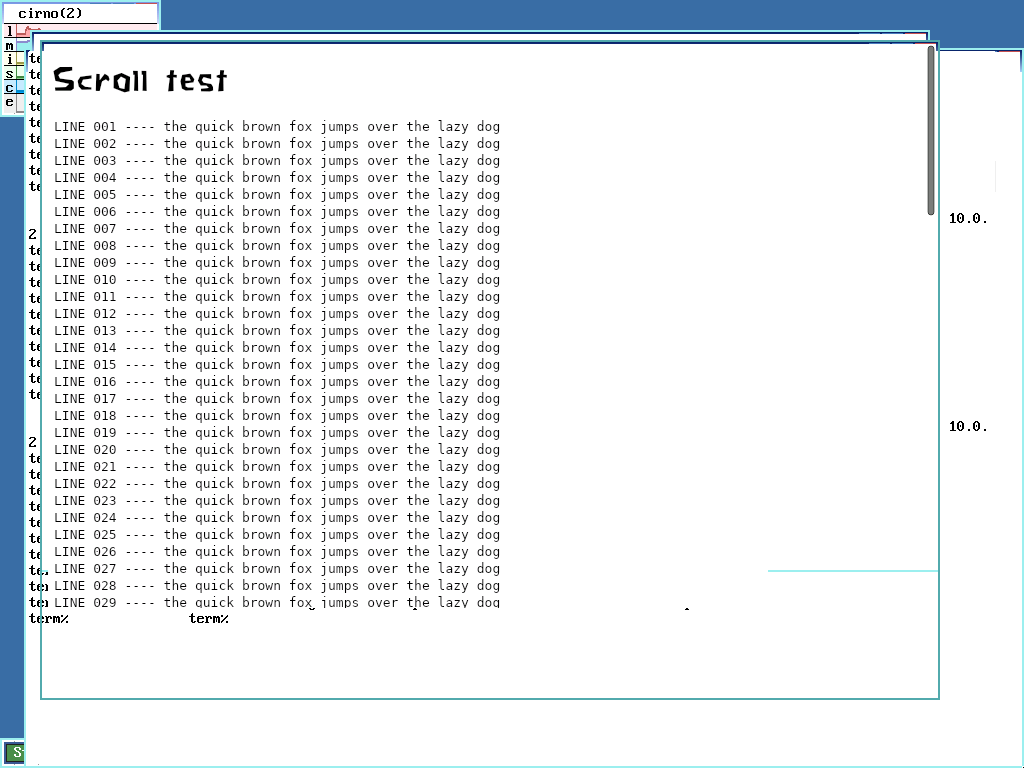
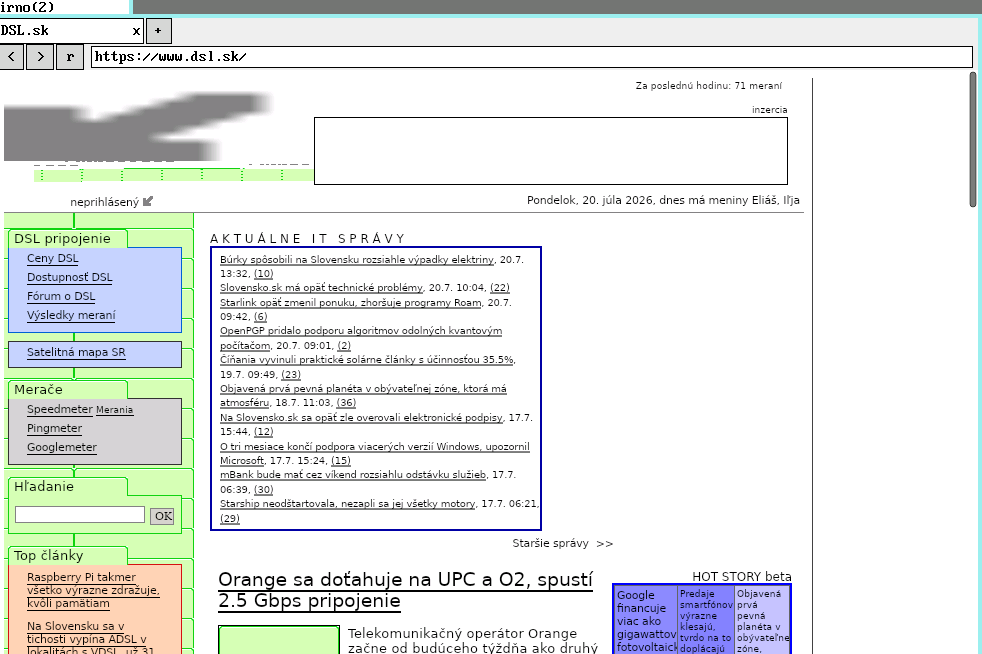
ladybird9: update docs + screenshots for v0.2.0 (chrome, images, current fonts)
The README still described v0.1.0: "no browser chrome yet", "no video/WebGL/
JPEG-XL/AVIF", "temporary profile", and a "publication pending sign-off" note.
v0.2.0 has all of these — real tab strip + address bar + back/forward/reload,
the deferred codecs enabled, a persistent profile, images rendering. Rewrote the
what-works / what's-not lists honestly (heavy SPAs like youtube.com don't settle;
no JS JIT — same interpreter as macOS), fixed the NetSurf comparison's chrome row.

Screenshots regenerated from the current build (were old-font, pre-chrome):
- doc-hackernews: current headless HN render (correct fonts, the Y-logo image)
- m5-window-initial: an interactive window WITH chrome (tabs/address bar/nav) on
  dsl.sk
- doc-render-cleanbox: Wikipedia, full article layout
Dropped the speedtest.net shot from the table — it's a heavy SPA that no longer
screenshots reliably (same class as youtube.com).

deferrals.md: new ICC-color-profile entry (skcms cc9 stack-overflow → sRGB
fallback), and the two Gamepad entries marked RESOLVED (real SDL3 3.2.24, 9/9).

diff --git a/ladybird9/README.md b/ladybird9/README.md
@@ -21,28 +21,32 @@ not asserted: `--headless=text` DOM dumps come out **byte-identical** to the
 same-commit host (macOS) build, and the LibJS smoke battery matches too. The
 deferrals (below) all go through upstream's own feature gates.
 
-**Done — the engine is; the product isn't quite.** What works today:
+**Done — the engine is; the product is usable.** What works today:
 
-- Renders real modern pages — HN, speedtest.net's React SPA, styled content —
-  with correct CSS layout, fonts, colors, and working JavaScript.
-- HTTPS over OpenSSL (ssl9), the full multi-process stack (UI + WebContent +
-  Compositor + RequestServer + ImageDecoder + WebWorker) over `TransportPlan9`.
+- Renders real modern pages — Wikipedia, HN, dsl.sk, styled content — with
+  correct CSS layout, fonts, colors, **images**, and working JavaScript.
+- HTTPS over OpenSSL out of the box (Mozilla CA roots bundled) — no hand-fetching
+  a bundle. The full multi-process stack (UI + WebContent + Compositor +
+  RequestServer + ImageDecoder + WebWorker) over `TransportPlan9`.
+- **Browser chrome**: a real tab strip, address bar, and back/forward/reload,
+  drawn presenter-side in `gl9win2` — `ladybird <url>` opens a usable window.
+  macOS-style Super-key chords (`Super-L` focus + select-all, `Super-T`/`W`/`R`)
+  and Plan 9 line editing in the address bar.
 - **Headless**: `ladybird --headless --screenshot-path shot.png <url>`.
-- **Interactive**: a libdraw window via the `gl9win2` presenter — the page
-  renders on-screen and mouse/keyboard/scroll flow back in.
-- `pac9`-installable (see below). Cold-start on real hardware ≈ **3.7 s**.
+- Persistent profile (history/cookies survive restarts). `pac9`-installable
+  (see below). Cold-start on real hardware ≈ **3.7 s**.
 
 What is **not** done:
 
-- **No browser chrome yet.** `UI/Plan9`'s view is a `HeadlessWebView` subclass,
-  so you get the *page* in a window — but no address bar, tab strip, or
-  back/forward/reload buttons. The URL is passed on the command line. The chrome
-  widgets live only in `UI/Qt` and `UI/AppKit`, neither ported.
+- **Heavy client-rendered SPAs don't settle.** A page like youtube.com never
+  finishes its client-side render and can drive a small box out of memory;
+  static and moderate sites render fully.
+- No JS JIT — LibJS runs upstream's assembly *interpreter* (the JIT was removed
+  upstream), same as the macOS build, so heavy JavaScript is slow on a slow CPU.
 - **Deferred features** (tracked in [`parity/deferrals.md`](parity/deferrals.md),
-  all via upstream gates): no `<video>`/`<audio>` (ffmpeg not built), no WebGL
-  (no GPU), no JPEG-XL/AVIF; SQL disabled and the profile is temporary (Plan 9
-  file-locking) so history/cookies don't persist — the launcher passes
-  `--temporary-profile --disable-sql-database`.
+  all via upstream gates): `<video>`/`<audio>` decode is built (ffmpeg 7.1.1)
+  but there is no 9front audio-out backend, so playback is silent/decode-only;
+  WebGL runs on gl9/Mesa softpipe (no GPU); JPEG-XL/AVIF decode is on.
 - It's **heavy**: six static `a.out`s (~400 MB), so first paint has real latency.
 
 **Pin:** upstream master `8cc5d7a5ff` (2026-07-15). Upstream has no releases and
@@ -53,10 +57,11 @@ the tree and applies `port/patches/`.
 
 | | |
 |---|---|
-| ![HN](parity/screenshots/doc-hackernews.png) | ![speedtest.net](parity/screenshots/doc-speedtest-ookla.png) |
-| Hacker News — full page, real layout | speedtest.net — a modern React SPA renders + the test auto-starts |
-| ![in a rio window](parity/screenshots/m5-window-initial.png) | ![clean render](parity/screenshots/doc-render-cleanbox.png) |
-| Interactive: the page in a **rio window** (note: no browser chrome) | A styled page, pixel-correct CSS |
+| ![in a rio window with chrome](parity/screenshots/m5-window-initial.png) | ![Wikipedia](parity/screenshots/doc-render-cleanbox.png) |
+| Interactive: **browser chrome** — tab strip, address bar, back/forward/reload — in a rio window (dsl.sk) | Wikipedia — full article layout, pixel-correct CSS + fonts |
+
+*(The Hacker News shot at the top of this README is a current headless render —
+note the correct fonts and the rendered `Y` logo image.)*
 
 ## Install with pac9
 
@@ -83,9 +88,8 @@ resources + ICU data + the CA bundle + a private copy of the `gl9win2`
 presenter. `pac9 uninstall ladybird9` / `pac9 changelog ladybird9` / `pac9
 upgrade` all work.
 
-> The v0.1.0 GitHub release is **built and staged** (`release/make-tarball.sh`)
-> but publication is pending sign-off. To try it before then, serve the tarball
-> locally and point the registry at it — see `release/test-install.rc`.
+> To try a build before it's published, serve the tarball locally and point the
+> registry at it — see `release/test-install.rc`.
 
 ## vs. NetSurf on Plan 9
 
@@ -101,7 +105,7 @@ the pac9 registry). They aim at different points:
 | Rendering | Native Plan 9 `draw` | Skia CPU raster (→ libdraw window via gl9win2) |
 | Processes | Single, lightweight | Multi-process (6), heavy |
 | Footprint | A few MB | ~400 MB static binaries, ~3.7 s cold-start |
-| Browser chrome | **Native front-end** (tabs, URL bar) | **None yet** — single-URL viewport |
+| Browser chrome | **Native front-end** (tabs, URL bar) | **Tabs, address bar, back/forward/reload** (gl9win2) |
 | Modern sites | Struggle (limited JS/CSS3) | **Render faithfully** (HN, speedtest.net, …) |
 | Maturity on 9front | WIP, no releases | M0–M6 complete, pac9-installable, parity-measured |
 | TLS/HTTPS | Yes | Yes (OpenSSL / ssl9) |
@@ -110,8 +114,8 @@ the pac9 registry). They aim at different points:
 browser — it has a real native UI, starts instantly, and sips memory, which is
 perfect for simple or older sites. ladybird9 is the *modern-web-fidelity* option
 — it's the real engine used by a from-scratch standards browser, so it renders
-today's JS/CSS3 sites correctly, at the cost of being heavyweight and (for now)
-chrome-less. If you want to *browse* on Plan 9 today, NetSurf. If you want the
+today's JS/CSS3 sites correctly, at the cost of being heavyweight. If you want a
+lightweight browser for simple sites on Plan 9 today, NetSurf. If you want the
 *real modern web engine* on Plan 9, ladybird9.
 
 (For contrast, the stock 9front browsers — Mothra, Abaco — predate CSS entirely.)

diff --git a/ladybird9/parity/deferrals.md b/ladybird9/parity/deferrals.md
@@ -14,12 +14,13 @@ expected to behave identically to the same-commit host build.
 | Wasm AOT (cranelift) | Bytecode interpreter only; no cranelift AOT, no compiled-fault recovery | ENABLE_CRANELIFT_JIT OFF (upstream toggle, via plan9-inject.cmake) selects upstream CraneliftStubs.cpp; WASM_COMPILED_FAULT_RECOVERY_SUPPORTED gated NOT PLAN9 | never on stock 9front (W^X, no exec pages); wxallow kernel + a plan9 arm in target-lexicon if ever |
 | js REPL line editing | No libedit; raw stdin | patch 0004 (libedit skipped on plan9); js interactive uses fallback | real libedit port if interactive REPL wanted on-box |
 | WebGL (RESOLVED) | ENABLED. ENABLE_WEBGL now defined for AK_OS_PLAN9 (OpenGLContext.cpp); WebGL runs on gl9 (Mesa softpipe + OSMesa) via the CPU-painting path — surfaceless eglMakeCurrent → render to FBO → glReadPixels into a Gfx::Bitmap; no GPU, no window. Page compositing stays CPU (force_cpu_painting). gl9egl gained a surfaceless-context arm (binds a private throwaway buffer, since OSMesa needs one to make a context current); two ANGLE enums added to host/compat/GLES2/gl2ext_angle.h (GL_TEXTURE_RECTANGLE_ANGLE, GL_REQUESTABLE_EXTENSIONS_ANGLE — inert on gl9). Proven on cirno two ways: gl9 test 09_fbo_surfaceless (6/6 PASS, exact readback) and, in the full browser, a live `<canvas webgl>` page whose clear-color composites correctly (200x200 red canvas in the headless screenshot). NOTE: a fix was required first — allocate_painting_surface_if_needed / allocate_cpu_painting_surface / present flush + the header were all missing a PLAN9 arm, so any WebGL page crashed the Compositor (VERIFY(m_painting_surface) → invalid-opcode); fixed in commit 87471a0. Shader-drawn primitives now rasterize too (2026-07-18): a green WebGL triangle renders on cirno (12800 green + 27200 red px = 200x200 exact). The earlier 1-pixel-triangle bug was gl9egl's eglMakeCurrent forcing the GL viewport to the 1x1 surfaceless dummy buffer on every make-current — it now preserves the client's viewport across a surfaceless re-make-current of the same context. | — (llvmpipe JIT would need a W^X kernel; softpipe is the stock-kernel choice) |
-| Gamepad virtual joysticks | InternalGamepad's SDL_AttachVirtualJoystick always fails (no virtual devices) | host/compat/sdl3-virtual-joystick-stubs.c appended to SDL3::SDL3 (PLAN9 arm); fold into port/sdl3-shim next sysroot regen | with the sysroot sdl3-shim regeneration |
+| ICC color profiles | Embedded ICC profiles are NOT parsed on PLAN9 — images fall back to the default sRGB color space. Skia's `skcms_Parse` overflows the ~1KB stack frame of `Gfx::ColorSpace::load_from_icc_bytes` when built by cc9 (SSP canary trips: "cc9: stack smashing detected"), killing the ImageDecoder on every ICC-profiled image (most PNGs, incl. Wikipedia's). The same skcms passes on macOS, so it's a cc9 codegen bug in third-party SIMD-heavy code. Found by disassembling the fault PC. Images (local/remote PNG+JPEG) render correctly once the profile is skipped; only wide-gamut colours are very slightly off. | ImageDecoder.cpp PLAN9 arm (patch 0007) returns `ColorSpace{}` | rebuild skcms at -O0 to confirm the optimizer, then narrow the flag / fix cc9 |
+| Gamepad virtual joysticks (RESOLVED) | ENABLED. The real SDL3 3.2.24 is built (host/deps/build-sdl3.sh: static, dummy video, joystick+hidapi+virtual-joystick on), so `SDL_AttachVirtualJoystick` actually attaches. Replaced the old empty shim. | build-sdl3.sh (SDL_HIDAPI=ON + SDL_VIRTUAL_JOYSTICK=ON, a dep_option on HIDAPI) | done |
 | Sandbox | RendererSandboxUnimplemented | upstream's own fallback for unknown platforms | 9front has no seccomp equivalent; permanent, matches other tier-2 platforms |
 | ICU data | Archive file `/lib/icu/icudt78l.dat` + `ICU_DATA` env (launcher-set), not a linked-in .a | build-icu.sh archive packaging | n/a (upstream vcpkg uses static data; archive is ICU-sanctioned and saves ~30MB/process) |
 | HTTP/3 | curl built without quiche/ngtcp2 | build-curl recipe | if ever needed |
 | Proxy discovery | no libproxy | direct connections | env-var proxy support via curl if needed |
-| Gamepad API | No gamepads on 9front; SDL3 is a shim ≡ real SDL3's dummy joystick backend (init OK, zero devices, no events) against the real 3.2.24 headers | port/sdl3-shim + build-sdl3-shim.sh | real SDL3 port if input devices ever matter |
+| Gamepad API (RESOLVED) | ENABLED. Real SDL3 3.2.24 with the virtual-joystick driver — all 9 `Text/input/GamepadAPI/*` tests pass, matching the macOS build (9/9). No physical gamepads on 9front, but the software virtual joystick the tests use works end to end. | build-sdl3.sh | done |
 | PSL IDNA runtime | libpsl is REAL (builtin DAFSA from the pinned 0.21.5 public suffix list) but built --disable-runtime: non-ASCII lookup input isn't IDNA-mapped (Ladybird's LibURL always feeds punycoded ASCII hosts, so no behavior gap) | build-libpsl.sh | link libidn2/libunistring if raw-unicode psl lookups ever appear |
 | Persistent profile (RESOLVED 2026-07-18) | The SQLite "locking protocol" open failure is FIXED: LibDatabase (Database.cpp) opens with the built-in "unix-none" VFS on PLAN9 (no fcntl locks; safe for a single-writer browser) + a rollback journal (WAL needs shm-locking unix-none can't do). A fresh persistent profile opens/renders/persists, AND **reopening a populated profile now works**: round 1 writes a 36 KB Ladybird.db (cookie set), its process tree exits clean, and round 2 reopens the same `--profile-path` and renders with no crash/hang. The earlier "reopen wedges" had two real causes, both fixed: (a) a cc9 FIONREAD path that recursed into the poll reader-spawn (poll.c: cc9_poll_pending no longer starts a reader), and (b) a test harness using a nonexistent `--profile-directory` flag. `--disable-sql-database` IS dropped (SQL works in-session). | Database.cpp + RequestServer/main.cpp PLAN9 arms (patches 0003/0007); cc9 poll.c FIONREAD fix | — |
 | HTTP disk cache | Non-fatal warn "Unable to create disk cache": the cache-index DB open now reaches SQLite (VFS fixed) but still fails ("unable to open database file" / earlier a `statvfs` ENOSYS from a cc9 runtime change). Non-essential; browser runs. | Services/RequestServer/main.cpp honors --http-disk-cache-mode again (force-off removed) | cache-dir open + statvfs shim |